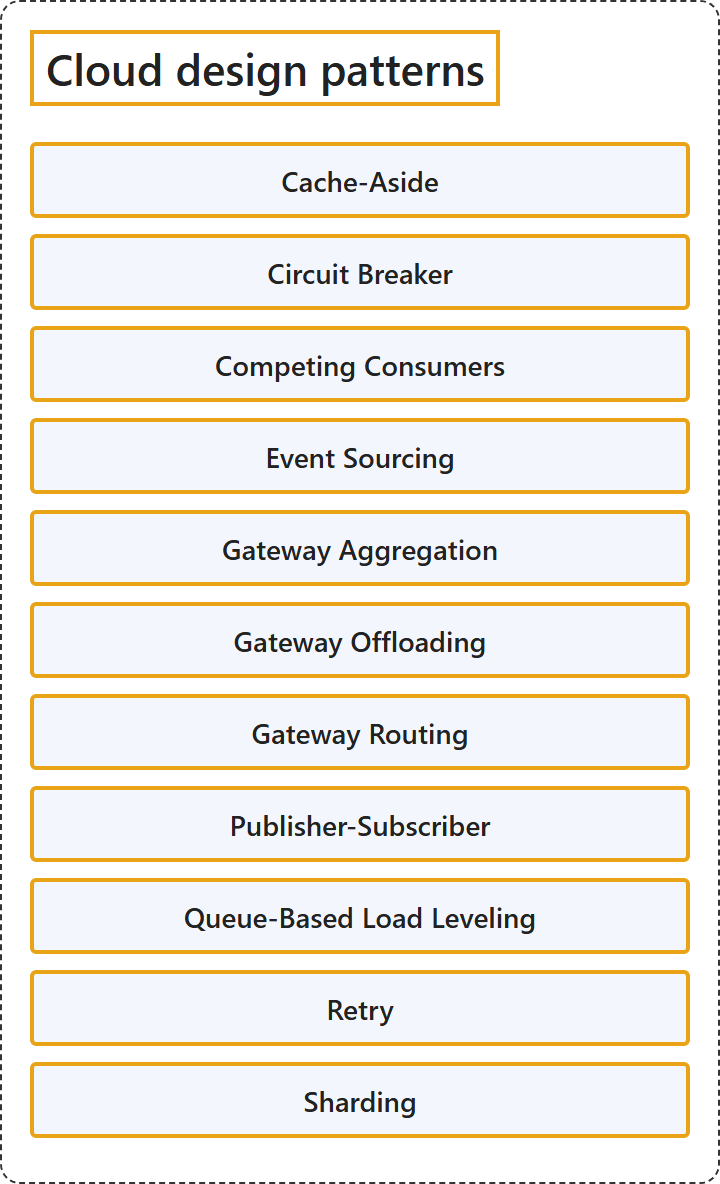
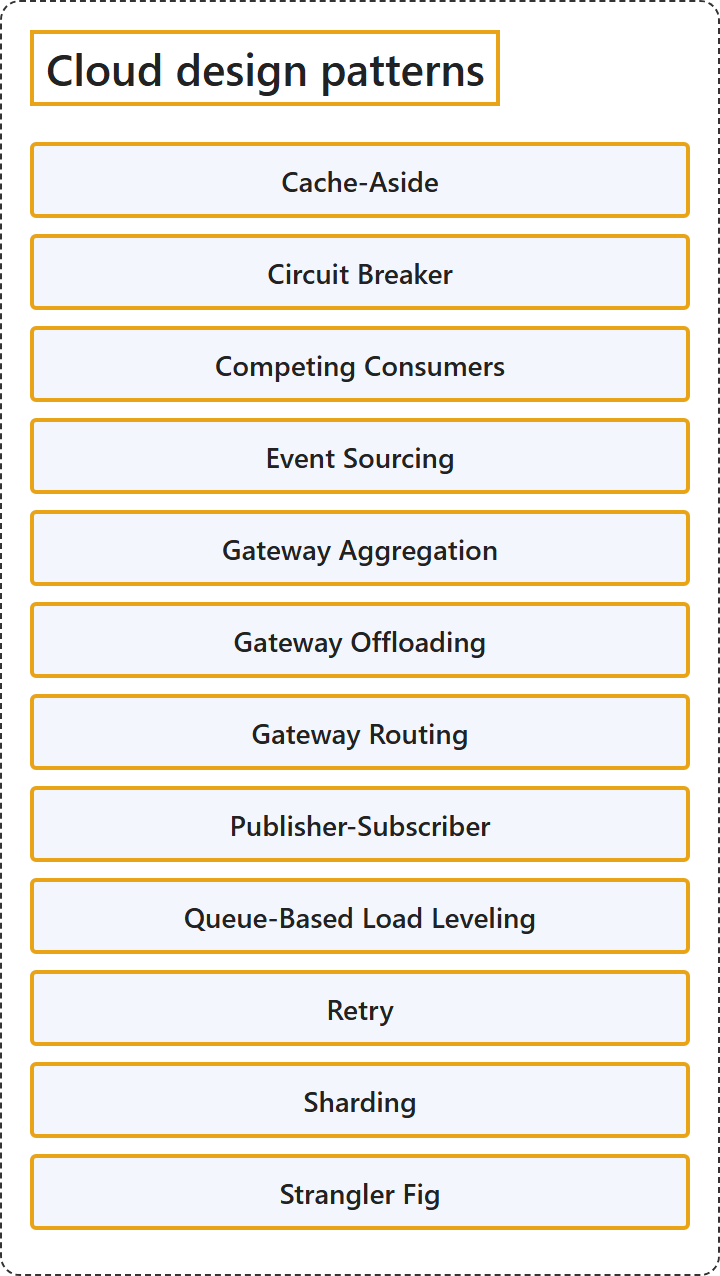
feat(cloud): CST8911 W10, 27.3 adds Strangler Fig; 26.4 Migration row keeps the retired 2019-2025 Migrate efforts (Assess, Deploy, Release workloads)

diff --git a/figures/cloud/azure/architecture-center/architecture-center.html b/figures/cloud/azure/architecture-center/architecture-center.html
@@ -58,6 +58,7 @@
         <div class="item">Queue-Based Load Leveling</div>
         <div class="item">Retry</div>
         <div class="item">Sharding</div>
+        <div class="item">Strangler Fig</div>
       </div>
     </div>
   </div>

diff --git a/figures/cloud/azure/architecture-center/cloud-design-patterns.html b/figures/cloud/azure/architecture-center/cloud-design-patterns.html
@@ -28,6 +28,7 @@
     <div class="item">Queue-Based Load Leveling</div>
     <div class="item">Retry</div>
     <div class="item">Sharding</div>
+    <div class="item">Strangler Fig</div>
   </div>
 </div>
 </body></html>

diff --git a/docs/cloud/azure/cloud-adoption-framework/adopt.md b/docs/cloud/azure/cloud-adoption-framework/adopt.md
@@ -15,7 +15,7 @@ ms.date: 2026-10-27
 | Term | Definition | 中文解释 | Source |
 |---|---|---|---|
 | **Adopt**<br>采用 | (context) "**How will we migrate, modernize, and build workloads?**" | （语境）**我们要怎样迁移、现代化和构建工作负载？** | [Microsoft, 2026a, "How the Cloud Adoption Framework works" section, table row 4](https://learn.microsoft.com/en-us/azure/cloud-adoption-framework/overview#:~:text=How%20will%20we%20migrate%2C%20modernize%2C%20and%20build%20workloads%3F) |
-| **Migration**<br>迁移 | (context) "This plan **translates high-level migration strategies** into **actionable deployment sequences**." | （语境）该计划把**高层次的迁移策略转化**为**可执行的部署顺序**。 | [Microsoft, 2026f, para. 1](https://learn.microsoft.com/en-us/azure/cloud-adoption-framework/migrate/plan-migration#:~:text=This%20plan%20translates%20high-level%20migration%20strategies) |
+| **Migration**<br>迁移<br>(retired 2019–2025: the three migration efforts Assess workloads, Deploy workloads, Release workloads; [Microsoft, 2022](https://github.com/MicrosoftDocs/cloud-adoption-framework/blob/a535116/docs/migrate/index.md#:~:text=assess%20workloads%2C%20deploy%20workloads%2C%20and%20release%20workloads)) | (context) "This plan **translates high-level migration strategies** into **actionable deployment sequences**." | （语境）该计划把**高层次的迁移策略转化**为**可执行的部署顺序**。 | [Microsoft, 2026f, para. 1](https://learn.microsoft.com/en-us/azure/cloud-adoption-framework/migrate/plan-migration#:~:text=This%20plan%20translates%20high-level%20migration%20strategies) |
 | **Plan (Migration)**<br>规划（迁移） | "A **migration plan** defines **the specific order, timing, and approach for migrating workloads to Azure**." | **迁移计划**定义了**把工作负载迁移到 Azure 的具体顺序、时间和方法**。 | [Microsoft, 2026f, para. 1](https://learn.microsoft.com/en-us/azure/cloud-adoption-framework/migrate/plan-migration#:~:text=A%20migration%20plan%20defines%20the%20specific%20order) |
 | **Prepare (Migration)**<br>准备（迁移） | (context) "Before migrating to Azure, **workloads must be cloud-ready**. Cloud readiness **reduces cutover risk** and **ensures compatibility with Azure services**." | （语境）迁移到 Azure 之前，**工作负载必须做好上云准备**。上云准备**降低切换风险**，并**确保与 Azure 服务兼容**。 | [Microsoft, 2025h, para. 1](https://learn.microsoft.com/en-us/azure/cloud-adoption-framework/migrate/prepare-workloads-cloud#:~:text=Before%20migrating%20to%20Azure%2C%20workloads%20must%20be%20cloud-ready) |
 | **Execute (Migration)**<br>执行（迁移） | (context) "This article provides structured guidance for **executing a successful migration to Azure**. The guidance covers both **near-zero downtime and planned downtime approaches** to accommodate different business requirements." | （语境）本文为**成功执行向 Azure 的迁移**提供结构化指导。该指导涵盖**近零停机和计划停机两种方法**，以适应不同的业务要求。 | [Microsoft, 2025c, para. 1](https://learn.microsoft.com/en-us/azure/cloud-adoption-framework/migrate/execute-migration#:~:text=provides%20structured%20guidance%20for%20executing%20a%20successful%20migration) |
@@ -34,6 +34,7 @@ ms.date: 2026-10-27
 
 ## References
 
+- Microsoft. (2022, January 10). *Cloud migration* [Retired Cloud Adoption Framework page; source file at commit a535116]. GitHub, MicrosoftDocs/cloud-adoption-framework. https://github.com/MicrosoftDocs/cloud-adoption-framework/blob/a535116/docs/migrate/index.md
 - Microsoft. (2025a, August 1). *Build cloud-native solutions*. Cloud Adoption Framework. Microsoft Learn. https://learn.microsoft.com/en-us/azure/cloud-adoption-framework/cloud-native/build-cloud-native-solutions
 - Microsoft. (2025b, July 22). *Decommission source workloads after migration to cloud*. Cloud Adoption Framework. Microsoft Learn. https://learn.microsoft.com/en-us/azure/cloud-adoption-framework/migrate/decommission-source-workload
 - Microsoft. (2025c, August 20). *Execute migration to cloud*. Cloud Adoption Framework. Microsoft Learn. https://learn.microsoft.com/en-us/azure/cloud-adoption-framework/migrate/execute-migration

diff --git a/docs/cloud/azure/architecture-center/cloud-design-patterns.md b/docs/cloud/azure/architecture-center/cloud-design-patterns.md
@@ -1,6 +1,6 @@
 ---
 title: "27.3 Cloud Design Patterns"
-description: "Microsoft Azure, 27.3 Cloud design patterns: Cache-Aside, Circuit Breaker, Competing Consumers, Event Sourcing, Gateway Aggregation, Gateway Offloading, Gateway Routing, Publisher-Subscriber, Queue-Based Load Leveling, Retry, Sharding."
+description: "Microsoft Azure, 27.3 Cloud design patterns: Cache-Aside, Circuit Breaker, Competing Consumers, Event Sourcing, Gateway Aggregation, Gateway Offloading, Gateway Routing, Publisher-Subscriber, Queue-Based Load Leveling, Retry, Sharding, Strangler Fig."
 ms.date: 2026-10-27
 ---
 
@@ -8,7 +8,7 @@ ms.date: 2026-10-27
 
 ## Classification
 
-![Cloud design patterns, 11 terms from Cloud design patterns, in its order: Cache-Aside, Circuit Breaker, Competing Consumers, Event Sourcing, Gateway Aggregation, Gateway Offloading, Gateway Routing, Publisher-Subscriber, Queue-Based Load Leveling, Retry, Sharding.](media/cloud-design-patterns.png)
+![Cloud design patterns, 12 terms from Cloud design patterns, in its order: Cache-Aside, Circuit Breaker, Competing Consumers, Event Sourcing, Gateway Aggregation, Gateway Offloading, Gateway Routing, Publisher-Subscriber, Queue-Based Load Leveling, Retry, Sharding, Strangler Fig.](media/cloud-design-patterns.png)
 
 ## Glossary
 
@@ -25,6 +25,7 @@ ms.date: 2026-10-27
 | **Queue-Based Load Leveling**<br>基于队列的负载均衡 | "Use a **queue** that **creates a buffer between a task and a service** to **smooth intermittent heavy loads**." | 使用**队列**，**在任务和服务之间创建缓冲区**，以**平滑间歇性的重负载**。 | [Microsoft, 2026, "Catalog of patterns" table, "Queue-Based Load Leveling" row](https://learn.microsoft.com/en-us/azure/architecture/patterns/#:~:text=Use%20a%20queue%20that%20creates%20a%20buffer%20between%20a%20task%20and%20a%20service) |
 | **Retry**<br>重试 | "Enable applications to **handle anticipated temporary failures** by **retrying failed operations**." | 让应用程序能够**处理预期的暂时性故障**，方法是**重试失败的操作**。 | [Microsoft, 2026, "Catalog of patterns" table, "Retry" row](https://learn.microsoft.com/en-us/azure/architecture/patterns/#:~:text=Enable%20applications%20to%20handle%20anticipated%20temporary%20failures) |
 | **Sharding**<br>分片 | "Divide a **data store** into a set of **horizontal partitions or shards**." | 把**数据存储**划分为一组**水平分区或分片**。 | [Microsoft, 2026, "Catalog of patterns" table, "Sharding" row](https://learn.microsoft.com/en-us/azure/architecture/patterns/#:~:text=Divide%20a%20data%20store%20into%20a%20set%20of%20horizontal%20partitions%20or%20shards) |
+| **Strangler Fig**<br>绞杀者无花果 | "**Incrementally migrate a legacy system** by **gradually replacing pieces of functionality** with new applications and services." | **逐步迁移旧系统**，方法是用新的应用程序和服务**逐渐替换各部分功能**。 | [Microsoft, 2026, "Catalog of patterns" table, "Strangler Fig" row](https://learn.microsoft.com/en-us/azure/architecture/patterns/#:~:text=Incrementally%20migrate%20a%20legacy%20system%20by%20gradually%20replacing) |
 
 ## References
 

diff --git a/docs/cloud/azure/architecture-center/README.md b/docs/cloud/azure/architecture-center/README.md
@@ -8,10 +8,12 @@ Follows `../README.md`. Figure on `index.md`: classification (see `../README.md`
 |---|---|---|---|---|
 | 27.1 | `architecture-styles.md` | Architecture styles | [Architecture styles](https://learn.microsoft.com/en-us/azure/architecture/guide/architecture-styles/) | 27.1.1 N-tier, 27.1.2 Web-Queue-Worker, 27.1.3 Microservices, 27.1.4 Event-driven architecture, 27.1.5 Big data, 27.1.6 Big compute |
 | 27.2 | `best-practices.md` | Best practices | [Best practices in cloud applications](https://learn.microsoft.com/en-us/azure/architecture/best-practices/index-best-practices) | 27.2.1 API design, 27.2.2 API implementation, 27.2.3 Autoscaling, 27.2.4 Background jobs, 27.2.5 Caching, 27.2.6 Content Delivery Network, 27.2.7 Data partitioning, 27.2.8 Host name preservation, 27.2.9 Message encoding considerations, 27.2.10 Monitoring and diagnostics, 27.2.11 Transient fault handling |
-| 27.3 | `cloud-design-patterns.md` | Cloud design patterns | [Cloud design patterns](https://learn.microsoft.com/en-us/azure/architecture/patterns/) | 27.3.1 Cache-Aside, 27.3.2 Circuit Breaker, 27.3.3 Competing Consumers, 27.3.4 Event Sourcing, 27.3.5 Gateway Aggregation, 27.3.6 Gateway Offloading, 27.3.7 Gateway Routing, 27.3.8 Publisher-Subscriber, 27.3.9 Queue-Based Load Leveling, 27.3.10 Retry, 27.3.11 Sharding |
+| 27.3 | `cloud-design-patterns.md` | Cloud design patterns | [Cloud design patterns](https://learn.microsoft.com/en-us/azure/architecture/patterns/) | 27.3.1 Cache-Aside, 27.3.2 Circuit Breaker, 27.3.3 Competing Consumers, 27.3.4 Event Sourcing, 27.3.5 Gateway Aggregation, 27.3.6 Gateway Offloading, 27.3.7 Gateway Routing, 27.3.8 Publisher-Subscriber, 27.3.9 Queue-Based Load Leveling, 27.3.10 Retry, 27.3.11 Sharding, 27.3.12 Strangler Fig |
 | 27.4 | `technology-choices.md` | Technology choices | [Azure application architecture fundamentals: Make informed technology choices](https://learn.microsoft.com/en-us/azure/architecture/guide/#make-informed-technology-choices) | 27.4.1 Compute, 27.4.2 Data stores, 27.4.3 Messaging, 27.4.4 AI |
 | 27.5 | `architectures.md` | Architectures | [Browse Azure architectures](https://learn.microsoft.com/en-us/azure/architecture/browse/) | 27.5.1 Solution ideas, 27.5.2 Example workloads, 27.5.3 Reference architectures |
 
 The reference architectures taught in the courses (N-tier, Windows N-tier application, multi-region N-tier, PaaS and SaaS examples) are H3 inside 27.5.3.
 
 Checked 2026-10-27: Best practices now lists 11 practices (no separate "Data partitioning strategies"); 27.3 shows the 11 planned patterns only; 27.5 quotes the one sentence that names all three architecture types, as context. The technology choices still point to their topics: compute to 4, data stores to 8 and 9, messaging to 10, AI to 13.
+
+Strangler Fig (27.3.12) was added on 2026-11-11 for CST8911 W10 (Lecture 10, cloud adoption patterns: "Strangler Patterns"), from its row in the same catalog.

diff --git a/docs/cloud/azure/cloud-adoption-framework/README.md b/docs/cloud/azure/cloud-adoption-framework/README.md
@@ -17,3 +17,5 @@ Follows `../README.md`. Figure on `index.md`: classification (see `../README.md`
 The migration strategies are defined in `../migration/` (24.1); 26.2.3 links there. The CST8913 site keeps the 2022 table of contents for its CAF pages; where a 2022 section moved (organizational alignment to Strategy, operating model to Plan, Innovate renamed Cloud-native), the sub-page notes it once.
 
 Retired names stay in parentheses under the current term, never as boxes or rows: the Govern row of 26.5 carries the 2019–2023 Five Disciplines of Cloud Governance (Cost Management, Security Baseline, Identity Baseline, Resource Consistency, Deployment Acceleration), which the 2024 Govern methodology replaced with its five steps; CST8913 W3 and W9 slides still use the old names (2026-11-03).
+
+The Migration row of 26.4 Adopt carries the three migration efforts of the 2019–2025 Migrate methodology (Assess workloads, Deploy workloads, Release workloads), which the July 2025 rewrite replaced with Plan, Prepare, Execute, Optimize and Decommission; CST8911 W10 (Lecture 10, slide 7) still shows them (2026-11-11).
